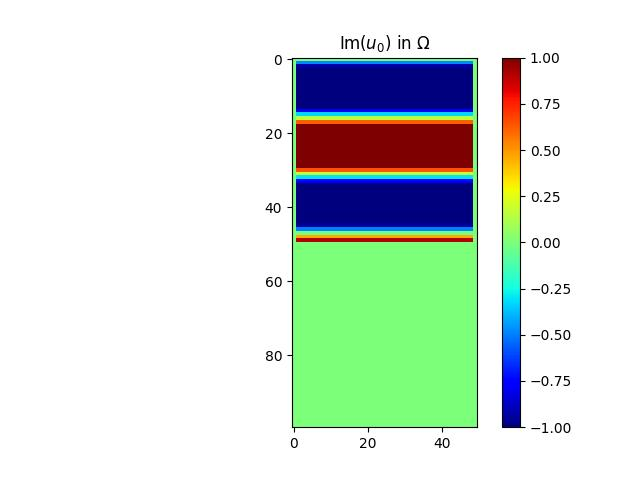
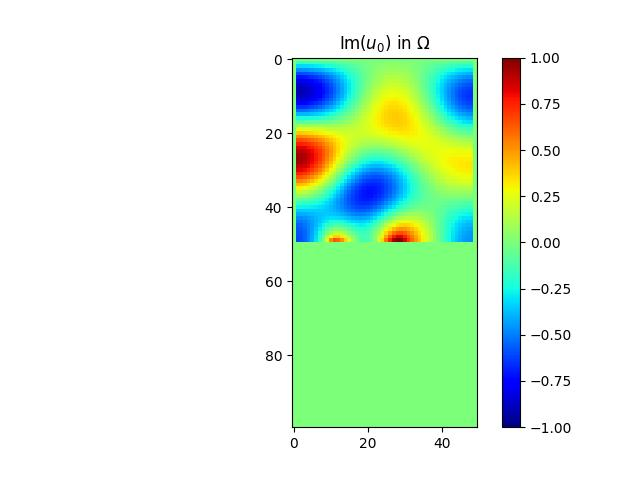
projecteurs en cours

Changed region(s): [[0.4375, 0.125, 0.75, 0.5312]]

diff --git a/projectors.py b/projectors.py
@@ -1,0 +1,58 @@
+import _env
+import numpy
+import preprocessing
+
+#TODO
+def rectified_linear(vect):
+    pass
+
+def sigmoid(vect, a):
+    1 / (1+numpy.exp(-a*(vect-0.5)))
+
+#TODO
+def flattened_linear(vect, delta):
+    pass
+
+def my_compute_projection(chi, domain, V_obj, phi=rectified_linear):
+    """This function performs the projection of $\chi^n - mu*grad
+
+    To perform the optimization, we use a projected gradient algorithm. This
+    function caracterizes the projection of chi onto the admissible space
+    (the space of $L^{infty}$ function which volume is equal to $V_{obj}$ and whose
+    values are located between 0 and 1).
+
+    :param chi: density matrix
+    :param domain: domain of definition of the equations
+    :param V_obj: characterizes the volume constraint. a ratio
+    :type chi: numpy.array((M,N), dtype=float64)
+    :type domain: numpy.array((M,N), dtype=complex128)
+    :type float: float
+    :return:
+    :rtype:
+    """
+    S = numpy.count_nonzero(domain == _env.NODE_ROBIN) # will be used at each iteration
+
+    chi = preprocessing.set2zero(chi, domain) # making sure that chi is 0 on the rest of the mesh
+    V = numpy.sum(chi) / S
+
+    # dichotomy boundaries
+    debut = -numpy.max(chi)
+    fin = numpy.max(chi)
+
+    ecart = fin - debut
+    while ecart > 10 ** -4: # we must stop looking for l when close enough
+        # calcul du milieu
+        l = (debut + fin) / 2
+        chi = phi(chi+l)
+        chi = preprocessing.set2zero(chi, domain) # making sure that chi is 0 on the rest of the mesh
+        V = numpy.sum(chi) / S
+        if V > V_obj:
+            fin = l
+        else:
+            debut = l
+        ecart = fin - debut
+        print('le volume est', V, 'le volume objectif est', V_obj)
+
+    return chi
+
+# We use dichotomy to find a constant such that chi^{n+1}=max(0,min(chi^{n}+l,1)) is an element of the admissible space

diff --git a/test.py b/test.py
@@ -1,0 +1,23 @@
+import numpy
+import _env
+import time
+
+# loading a domain
+domain = numpy.load('basic-domain.npy')
+
+# testing a faster way to evaluate the surface
+# teacher's solution
+t0 = time.time()
+(M, N) = numpy.shape(domain)
+S = 0
+for i in range(M):
+    for j in range(N):
+        if domain[i, j] == _env.NODE_ROBIN:
+            S = S + 1
+t1 = time.time()
+print(S, t1-t0)
+# my solution
+t0 = time.time()
+S = numpy.count_nonzero(domain == _env.NODE_ROBIN)
+t1 = time.time()
+print(S, t1-t0)
